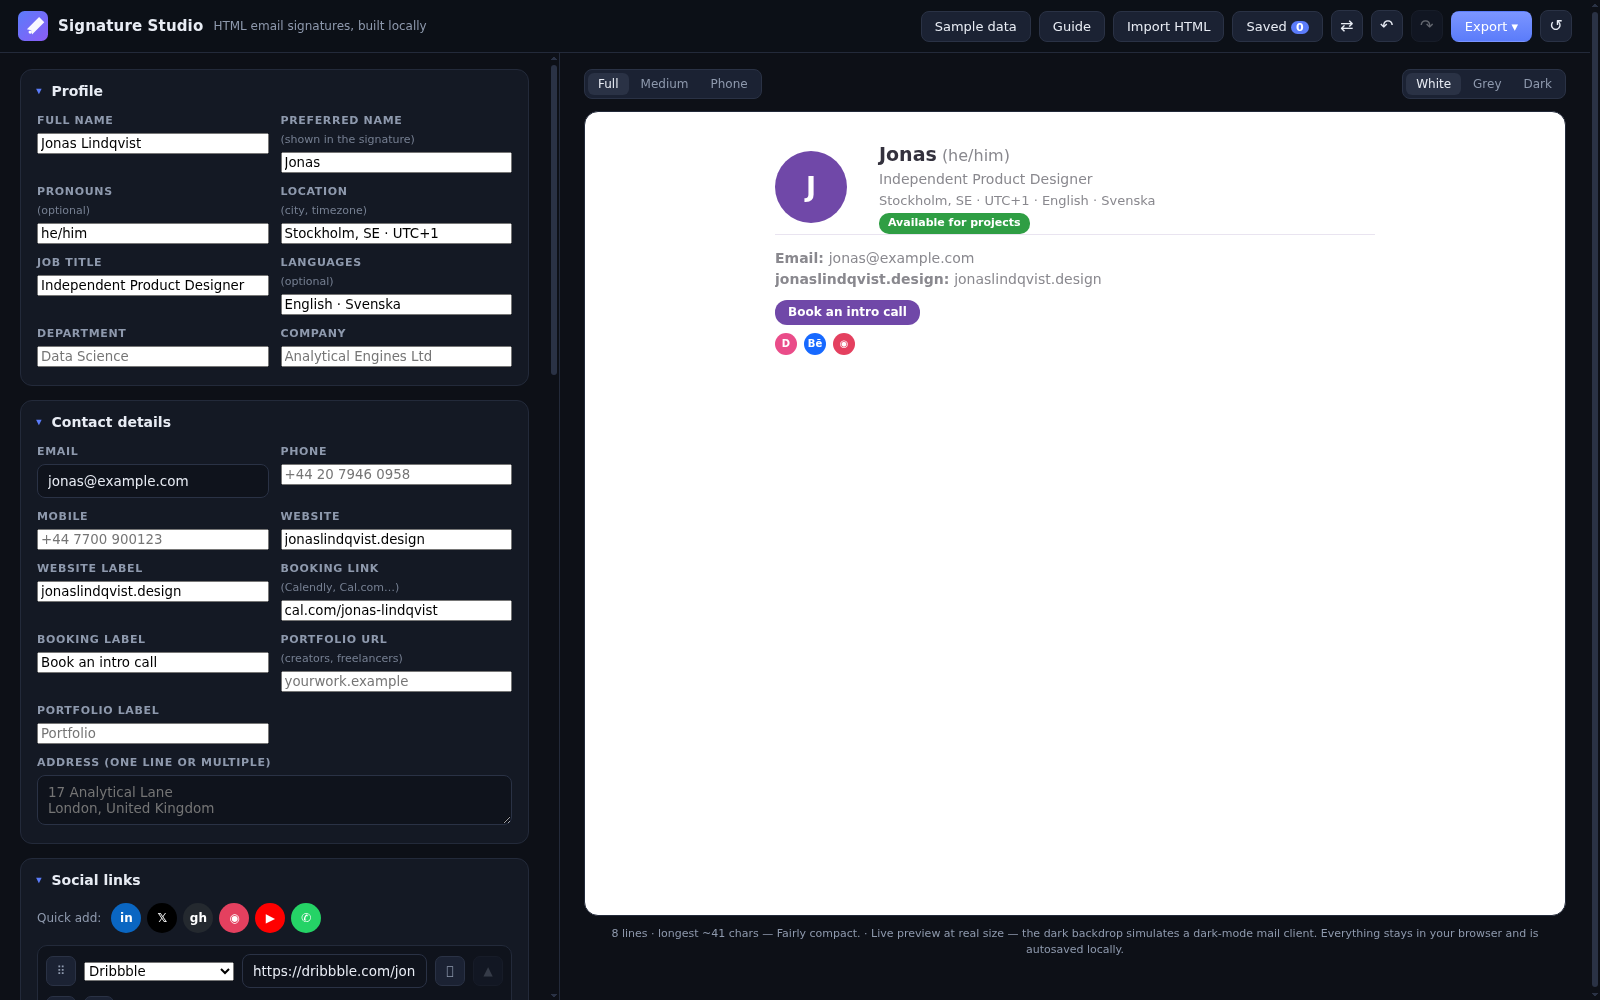
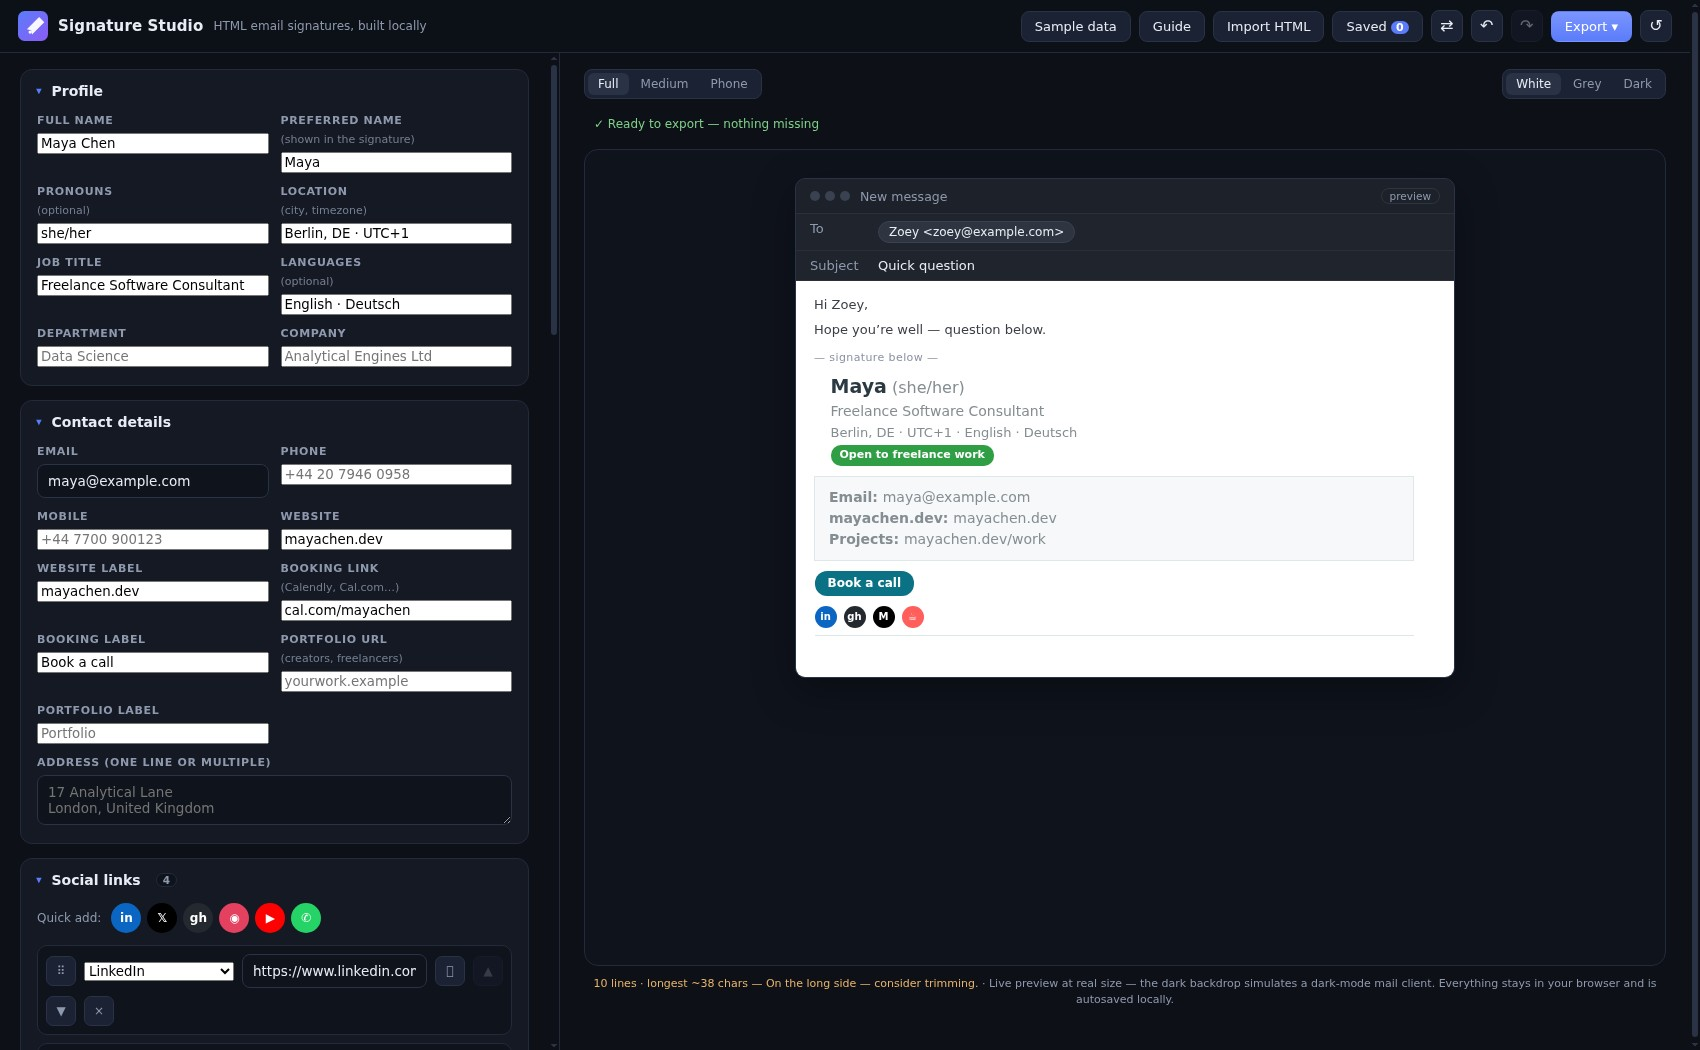
v0.15.0: socials position + compose-window preview
- Socials position (bottom / under the name / with contact details):
  wired through the shared builders — Classic, Centered, Banner,
  Compact, Split and Minimal honour all three; inContact works in every
  layout via the contact stack; default bottom output byte-identical
- Preview now sits inside a realistic compose window (window dots,
  To/Subject rows, body text, '— signature below —' separator); the
  body surface follows the white/grey/dark backdrop toggle, so dark-
  mode checks feel real
- E2E: 2 new preview tests (position ordering in srcdoc; compose
  window + backdrop behaviour) — 44/44 twice locally
- README overview screenshot refreshed

diff --git a/assets/js/templates.js b/assets/js/templates.js
@@ -35,6 +35,10 @@ const DENSITY = {
 };
 const densityOf = d => DENSITY[d.density] || DENSITY.regular;
 
+/* Socials placement: 'bottom' (default, legacy), 'underName' (right after
+   the identity block), 'inContact' (inside the contact stack). */
+const socialsPos = d => d.socialsPosition || 'bottom';
+
 /* Extra px on the name font size, on top of the per-layout baseline offset
    (+2 big / −2 small). Default 3 reproduces the classic +5/+1 today. */
 const nameExtraOf = d => {
@@ -157,7 +161,12 @@ function contactStackHtml(s, d, opts = {}) {
   const items = contactItems(s, d);
   if (!items.length) return '';
   const labels = opts.labels !== undefined ? opts.labels : d.showLabels !== false;
-  return items.map(it => contactLineHtml(d, it, { labels })).join('<br>');
+  let stack = items.map(it => contactLineHtml(d, it, { labels })).join('<br>');
+  if (socialsPos(d) === 'inContact') {
+    const socials = socialsRowHtml(s, d);
+    if (socials) stack += `<br>${socials}`;
+  }
+  return stack;
 }
 
 function contactInlineHtml(s, d, { labels = false } = {}) {
@@ -271,6 +280,17 @@ function classicRows(s, d, { center = false } = {}) {
     </td>`;
 
   rows.push(`<tr>${right ? identityCell + logoCell : logoCell + identityCell}</tr>`);
+
+  const socials = socialsRowHtml(s, d);
+  const emitSocials = (alignVal) => {
+    if (!socials) return;
+    const nested = center
+      ? `<table role="presentation" cellpadding="0" cellspacing="0" border="0" align="center" style="border-collapse:collapse;"><tr><td>${socials}</td></tr></table>`
+      : socials;
+    rows.push(`<tr><td colspan="2" align="${alignVal}">${nested}</td></tr>`);
+    rows.push(spacerHtml(4));
+  };
+  if (socialsPos(d) === 'underName') emitSocials(center ? 'center' : 'left');
   rows.push(dividerHtml(d));
 
   const stack = contactStackHtml(s, d);
@@ -283,14 +303,7 @@ function classicRows(s, d, { center = false } = {}) {
     rows.push(`<tr><td colspan="2" align="${align}">${booking}</td></tr>`);
     rows.push(spacerHtml(8));
   }
-  const socials = socialsRowHtml(s, d);
-  if (socials) {
-    const nested = center
-      ? `<table role="presentation" cellpadding="0" cellspacing="0" border="0" align="center" style="border-collapse:collapse;"><tr><td>${socials}</td></tr></table>`
-      : socials;
-    rows.push(`<tr><td colspan="2" align="${center ? 'center' : 'left'}">${nested}</td></tr>`);
-    rows.push(spacerHtml(4));
-  }
+  if (socialsPos(d) === 'bottom') emitSocials(center ? 'center' : 'left');
   rows.push(legalHtml(s, d));
   return rows.join('\n');
 }
@@ -309,15 +322,18 @@ function compactRows(s, d) {
     .map(it => contactLineHtml(d, it, { labels: false }))
     .join('<br>');
 
+  const socials = socialsRowHtml(s, d);
+  const pos = socialsPos(d);
+
   const identityCell = `<td class="m-cell" valign="middle" align="left">
-      ${nameHtml(s, d, { big: false })}${titleHtml(s, d)}${contextLineHtml(s, d)}${statusHtml(s, d)}
+      ${nameHtml(s, d, { big: false })}${titleHtml(s, d)}${contextLineHtml(s, d)}${statusHtml(s, d)}${pos === 'underName' && socials ? `<br>${socials}` : ''}
     </td>`;
-  const contactCell = `<td class="m-cell" valign="middle" align="right" style="padding-left:24px;">${contact || '&nbsp;'}</td>`;
+  const contactInner = pos === 'inContact' && socials ? `${contact}<br>${socials}` : contact;
+  const contactCell = `<td class="m-cell" valign="middle" align="right" style="padding-left:24px;">${contactInner || '&nbsp;'}</td>`;
 
   rows.push(`<tr>${right ? identityCell + contactCell + logoCell : logoCell + identityCell + contactCell}</tr>`);
 
-  const socials = socialsRowHtml(s, d);
-  if (socials) {
+  if (pos === 'bottom' && socials) {
     rows.push(spacerHtml(8, 3));
     rows.push(`<tr><td colspan="3" align="left">${socials}</td></tr>`);
   }
@@ -329,13 +345,17 @@ function minimalRows(s, d) {
   const rows = [];
   const first = [nameHtml(s, d, { big: true }), titleHtml(s, d), companyHtml(s, d), contextLineHtml(s, d), statusHtml(s, d)].join('');
   rows.push(`<tr><td colspan="2" align="left">${first}</td></tr>`);
+  const socials = socialsRowHtml(s, d);
+  if (socialsPos(d) === 'underName' && socials) {
+    rows.push(spacerHtml(6));
+    rows.push(`<tr><td colspan="2" align="left">${socials}</td></tr>`);
+  }
   const stack = contactStackHtml(s, d, { labels: false });
   if (stack) {
     rows.push(spacerHtml(6));
     rows.push(`<tr><td colspan="2" align="left">${stack}</td></tr>`);
   }
-  const socials = socialsRowHtml(s, d);
-  if (socials) {
+  if (socialsPos(d) === 'bottom' && socials) {
     rows.push(spacerHtml(6));
     rows.push(`<tr><td colspan="2" align="left">${socials}</td></tr>`);
   }
@@ -371,6 +391,11 @@ function splitRows(s, d) {
     const identityCell = `<td class="m-cell" valign="middle" align="left">${identity || '&nbsp;'}</td>`;
     rows.push(`<tr>${right ? identityCell + logoCell : logoCell + identityCell}</tr>`);
   }
+  const socials = socialsRowHtml(s, d);
+  if (socialsPos(d) === 'underName' && socials) {
+    rows.push(spacerHtml(den.rowGap));
+    rows.push(`<tr><td colspan="2" align="left">${socials}</td></tr>`);
+  }
   const stack = contactStackHtml(s, d);
   if (stack) {
     rows.push(spacerHtml(den.rowGap));
@@ -383,8 +408,7 @@ function splitRows(s, d) {
     rows.push(spacerHtml(den.rowGap));
     rows.push(`<tr><td colspan="2" align="left">${booking}</td></tr>`);
   }
-  const socials = socialsRowHtml(s, d);
-  if (socials) {
+  if (socialsPos(d) === 'bottom' && socials) {
     rows.push(spacerHtml(den.rowGap));
     rows.push(`<tr><td colspan="2" align="left">${socials}</td></tr>`);
   }

diff --git a/index.html b/index.html
@@ -210,6 +210,16 @@
             </div>
           </div>
 
+          <div class="field span2">
+            <span class="lbl">Socials position</span>
+            <div class="seg" id="seg-social-pos">
+              <label><input type="radio" name="socialsPosition" value="bottom" data-field="design.socialsPosition"><span>Bottom</span></label>
+              <label><input type="radio" name="socialsPosition" value="underName" data-field="design.socialsPosition"><span>Under the name</span></label>
+              <label><input type="radio" name="socialsPosition" value="inContact" data-field="design.socialsPosition"><span>With contact details</span></label>
+            </div>
+            <span class="micro">“Under the name” applies to Classic, Centered, Compact, Banner, Split and Minimal; other layouts keep them at the bottom.</span>
+          </div>
+
           <div class="field">
             <span class="lbl">Logo / photo URL</span>
             <span class="url-row"><input data-field="design.logoUrl" placeholder="https://…/logo.png"><button class="btn btn-sm" id="upload-logo" type="button">Upload</button></span>
@@ -300,7 +310,23 @@
       </div>
     </div>
     <div class="checklist" id="checklist"></div>
-    <div class="stage" id="stage"><iframe id="preview-frame" title="Signature preview"></iframe></div>
+    <div class="stage" id="stage">
+      <div class="compose" id="compose">
+        <div class="compose-head">
+          <span class="compose-dots" aria-hidden="true"><i></i><i></i><i></i></span>
+          <span class="compose-title">New message</span>
+          <span class="compose-chip">preview</span>
+        </div>
+        <div class="compose-row"><span class="compose-field">To</span><span class="compose-pill">Zoey &lt;zoey@example.com&gt;</span></div>
+        <div class="compose-row"><span class="compose-field">Subject</span><span class="compose-value">Quick question</span></div>
+        <div class="compose-body">
+          <p class="compose-msg">Hi Zoey,</p>
+          <p class="compose-msg">Hope you’re well — question below.</p>
+          <p class="compose-sig-note">— signature below —</p>
+          <div class="compose-sig"><iframe id="preview-frame" title="Signature preview"></iframe></div>
+        </div>
+      </div>
+    </div>
     <p class="micro preview-note"><span id="conciseness" class="concise-ok"></span> · Live preview at real size — the dark backdrop simulates a dark-mode mail client. Everything stays in your browser and is autosaved locally.</p>
   </section>
 

diff --git a/e2e/preview.spec.js b/e2e/preview.spec.js
@@ -1,0 +1,66 @@
+/* v0.15: socials position control + compose-window preview chrome. */
+'use strict';
+
+const { test, expect } = require('@playwright/test');
+const { freshPage, expectNoErrors, previewSrcdoc } = require('./helper');
+
+const LI = 'linkedin.com/in/adalovelace';
+
+async function setPosition(page, pos) {
+  await page.locator(`#seg-social-pos label:has(input[value="${pos}"])`).click();
+}
+
+test('socials position: bottom, under the name, and with contact details', async ({ page }) => {
+  const h = await freshPage(page);
+  await page.click('#btn-sample'); /* Ada, classic template */
+
+  const idx = async () => {
+    const doc = await previewSrcdoc(page);
+    return { li: doc.indexOf(LI), email: doc.indexOf('ada@example.com'), legal: doc.indexOf('This message') };
+  };
+
+  let p = await idx();
+  expect(p.li).toBeGreaterThan(p.email); /* default: bottom */
+
+  await setPosition(page, 'underName');
+  p = await idx();
+  expect(p.li).toBeGreaterThan(-1);
+  expect(p.li).toBeLessThan(p.email);
+
+  await setPosition(page, 'inContact');
+  p = await idx();
+  expect(p.li).toBeGreaterThan(p.email);
+  expect(p.li).toBeLessThan(p.legal);
+
+  await setPosition(page, 'bottom');
+  p = await idx();
+  expect(p.li).toBeGreaterThan(p.email);
+
+  await expectNoErrors(h);
+});
+
+test('preview sits inside a compose window whose body follows the backdrop toggle', async ({ page }) => {
+  const h = await freshPage(page);
+  await page.click('#btn-sample');
+
+  await expect(page.locator('#compose')).toBeVisible();
+  await expect(page.locator('#compose .compose-body')).toBeVisible();
+  await expect(page.locator('#compose')).toContainText('— signature below —');
+
+  const bodyBg = () =>
+    page.evaluate(() => getComputedStyle(document.querySelector('.compose-body')).backgroundColor);
+
+  const white = await bodyBg();
+  await page.locator('#seg-bg label:has(input[value="dark"])').click();
+  /* The body background transitions (.2s) — poll until it settles. */
+  await expect.poll(bodyBg).not.toBe(white);
+  const dark = await bodyBg();
+  await page.locator('#seg-bg label:has(input[value="grey"])').click();
+  await expect.poll(bodyBg).not.toBe(white);
+  await expect.poll(bodyBg).not.toBe(dark);
+  const grey = await bodyBg();
+  expect(grey).not.toBe(white);
+  expect(grey).not.toBe(dark);
+
+  await expectNoErrors(h);
+});

diff --git a/assets/styles.css b/assets/styles.css
@@ -581,7 +581,7 @@ textarea { resize: vertical; min-height: 40px; }
   border: 1px solid var(--line);
   border-radius: 14px;
   padding: 28px 20px;
-  background: #ffffff;
+  background: var(--panel2);
   transition: background .2s;
   display: flex;
   justify-content: center;
@@ -589,8 +589,62 @@ textarea { resize: vertical; min-height: 40px; }
   overflow: auto;
   min-height: 240px;
 }
-.stage.grey { background: #eef1f5; }
-.stage.dark { background: #17181a; }
+.stage.grey { background: #232833; }
+.stage.dark { background: #101319; }
+
+/* compose-window chrome around the live preview */
+.compose {
+  width: 100%;
+  max-width: 660px;
+  background: #1d2129;
+  border: 1px solid var(--line2);
+  border-radius: 10px;
+  overflow: hidden;
+  box-shadow: 0 12px 40px rgba(0, 0, 0, .35);
+}
+.compose-head {
+  display: flex;
+  align-items: center;
+  gap: 10px;
+  padding: 9px 14px;
+  border-bottom: 1px solid #2a2f3a;
+}
+.compose-dots { display: flex; gap: 5px; }
+.compose-dots i { width: 10px; height: 10px; border-radius: 50%; background: #3a4150; display: block; }
+.compose-title { font-size: 12.5px; color: var(--mut); flex: 1; }
+.compose-chip {
+  font-size: 10.5px;
+  color: var(--mut);
+  border: 1px solid #2f3540;
+  border-radius: 9px;
+  padding: 1px 8px;
+}
+.compose-row {
+  display: flex;
+  gap: 12px;
+  padding: 7px 14px;
+  border-bottom: 1px solid #2a2f3a;
+  font-size: 13px;
+  background: #20242c;
+}
+.compose-field { color: var(--mut); width: 56px; flex: 0 0 auto; }
+.compose-pill {
+  background: #2f3540;
+  border: 1px solid #3a4150;
+  color: var(--text);
+  border-radius: 12px;
+  padding: 0 10px;
+  font-size: 12px;
+  line-height: 20px;
+}
+.compose-value { color: var(--text); }
+.compose-body { padding: 16px 18px 24px; background: #ffffff; transition: background .2s; }
+.stage.grey .compose-body { background: #eef1f5; }
+.stage.dark .compose-body { background: #17181a; }
+.compose-msg { margin: 0 0 10px; font-size: 13px; color: #3a3f47; }
+.stage.dark .compose-msg { color: #a7adbb; }
+.compose-sig-note { margin: 14px 0 8px; font-size: 11px; color: #8a93a3; letter-spacing: .4px; }
+.stage.dark .compose-sig-note { color: #5d6675; }
 
 .stage iframe {
   width: 100%;

diff --git a/assets/js/state.js b/assets/js/state.js
@@ -82,6 +82,7 @@ function defaultState() {
       showBooking: true,
       showStatus: true,
       showSocials: true,
+      socialsPosition: 'bottom',  // bottom | underName | inContact
       /* density + name size */
       density: 'regular',   // airy | regular | compact
       nameSizeExtra: 3,     // px added to the base font size for the name

diff --git a/docs/qa-report.md b/docs/qa-report.md
@@ -337,6 +337,33 @@ name-size boost, editor section counts and remembered open state.
 
 ---
 
+# v0.15.0 addendum (socials position + compose-window preview)
+
+Date: 2026-11-19 · Scope: socials placement control, realistic compose
+window around the live preview.
+
+## Issues found and fixed in this round
+
+| # | Severity | Issue | Fix |
+| --- | --- | --- | --- |
+| 1 | Test-only | Clicking the visually-hidden radio inputs in `.seg` groups timed out. | Click the wrapping label (`label:has(input[value=…])`), the established pattern. |
+| 2 | Test-only | The compose body background has a .2s transition; same-frame computed-style reads were still white, and background tabs freeze transitions entirely. | Test polls until the background settles. |
+
+## Verification evidence (all passed)
+
+- Node vm: socials position suite 25/25 (bottom/underName/inContact ×
+  classic/compact/split/minimal, plus default-state regression); default
+  renders unchanged.
+- Browser: compose window renders with header dots, To/Subject rows and
+  the signature below the separator; backdrop toggle moves the body
+  white→grey→dark (vision-verified screenshot); zero console errors.
+- Playwright: 44/44 twice consecutively (2 new preview tests: socials
+  position ordering in srcdoc, compose window + backdrop behaviour).
+- Release published with verified SHA-256 assets; CI check + e2e green on
+  the tag. README overview screenshot refreshed.
+
+---
+
 # v0.4.0 addendum
 
 Date: 2026-11-19 · Scope: logo position (left/right of the name block) in

diff --git a/docs/roadmap.md b/docs/roadmap.md
@@ -59,6 +59,10 @@ ship them. Checked items are shipped (v0.1.0 / v0.2.0).
   location, every contact item, booking, status, socials — any layout);
   density presets (airy/regular/compact) and a name-size boost slider;
   editor section count badges + open/closed state remembered; E2E now 42
+- [x] v0.15.0 — socials position (bottom / under the name / with contact
+  details) across the main layouts; the preview now sits inside a realistic
+  email compose window (To/Subject rows, body, signature separator) whose
+  body follows the white/grey/dark backdrop toggle; E2E now 44
 - [ ] Live demo — skipped for now (user decision, 2026-11-19). This
   instance (17.0.1+gitea-1.22.0) has **no Pages feature** — Gitea removed
   it from the 1.21 base; there is no `[pages]` config and no Pages API.
